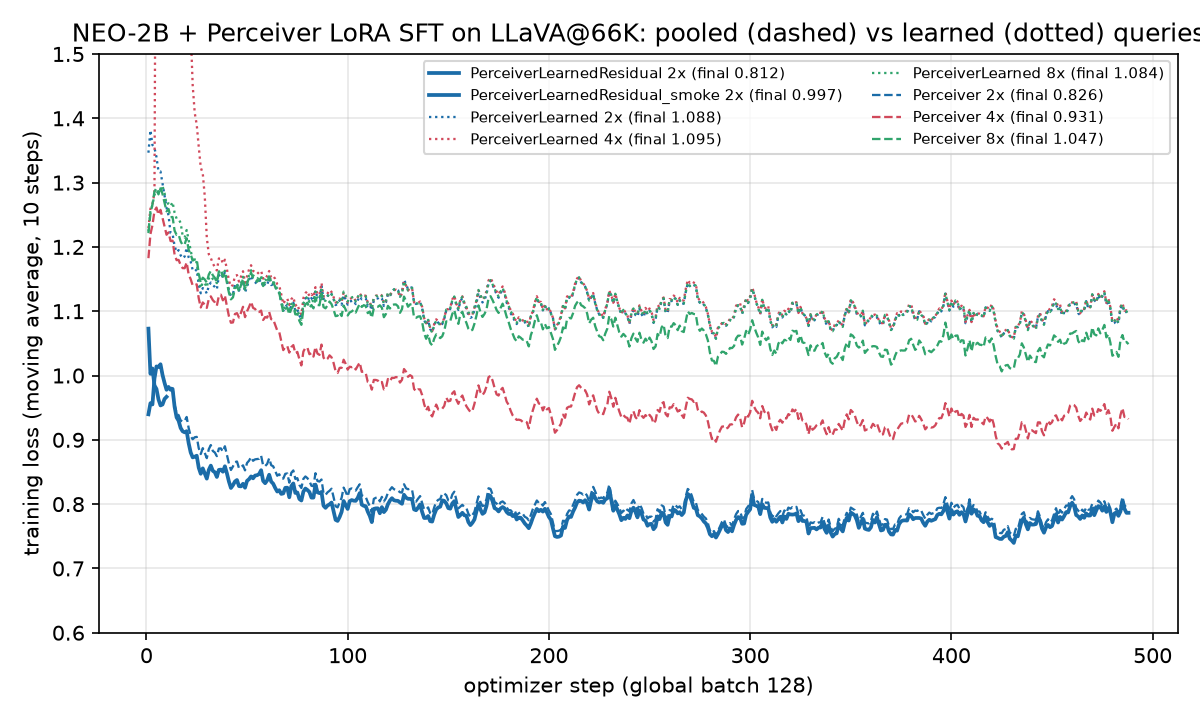
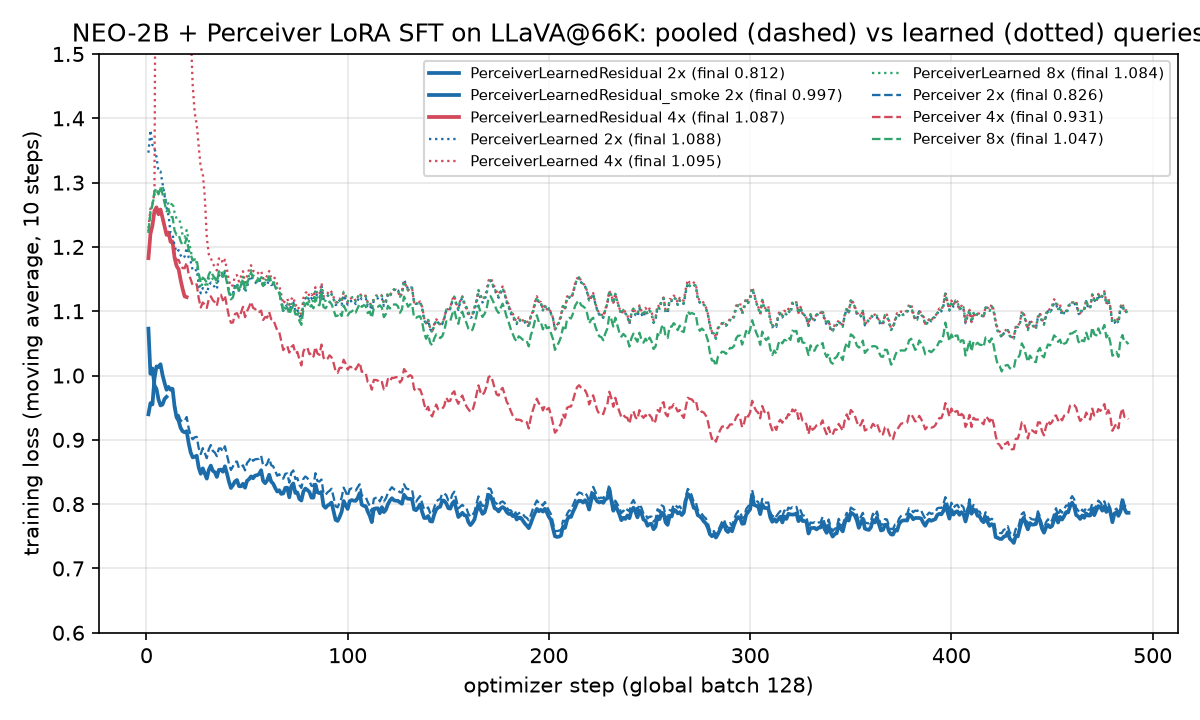
perceiver-learned: e003 done (full 2x row 73.37/1527/47.00/59.22/33.42/40.00/20.7/40.24, RWQA retry 8454045 after node fault); e004 seg1 progress note; figure refreshed

Changed region(s): [[0.3392, 0.1528, 0.6475, 0.2444], [0.1233, 0.275, 0.1542, 0.3972], [0.9558, 0.2139, 0.9867, 0.2444]]

diff --git a/research/experiments/perceiver-learned/e003.md b/research/experiments/perceiver-learned/e003.md
@@ -3,11 +3,11 @@ id: e003
 direction: perceiver-learned
 batch: b003
 parent: e002
-status: submitted
+status: done
 created: 2026-11-09T18:30:00
 sha: 12a1540
 cluster: ascend
-jobs: [8453614, 8453620]
+jobs: [8453614, 8453620, 8454045]
 config:
   tier: probe tier 2 (debug-nextgen, 40 min), evals tier 3 (nextgen array, 6 tasks x 2.5 h)
   probe: scripts/perceiver_probe.py --n 128 --seed 0 --ratio 2 (same 128 LLaVA samples as e001), conditions residual/{trained,no-latents,fixed,zeros} + pooled/{trained,zeros}
@@ -18,8 +18,10 @@ metrics: {probe_residual_trained: 0.6350, probe_residual_no_latents: 0.6361, pro
   probe_delta_trained_minus_pooled: -0.0093, latent_term_rms_over_pooled_query_rms: 0.0023, latents_rms: 0.0129,
   attn_gate_tanh: 0.0001, mlp_gate_tanh: 0.0100, residual_attn_entropy_over_logN: 0.0255, residual_attn_max_weight: 0.928,
   residual_output_cosine_to_fixed_pooling: 0.946, residual_output_rel_rms_change_from_fixed_pooling: 0.330,
-  mlp_branch_rms_unit_input: 19.4, implied_native_token_rms: 4.66}
-gpu_hours: 0.06
+  mlp_branch_rms_unit_input: 19.4, implied_native_token_rms: 4.66,
+  mmbench: 73.37, mme: 1527.31, mmmu: 47.00, rwqa: 59.22, textvqa: 33.42, docvqa: 40.00, ocrbench: 20.7, chartqa: 40.24,
+  pooled2x_mme: 1523.96, pooled2x_mmmu: 46.89, pooled2x_rwqa: 57.65, pooled2x_textvqa: 32.38, pooled2x_ocrbench: 20.8, pooled2x_chartqa: 40.12}
+gpu_hours: 2.44
 ---
 ## Hypothesis
 Follow-up to e002 (cause (b) fixed by construction, gate passed). Two questions. (1) Mechanism: the latents of the
@@ -105,8 +107,42 @@ Prediction scores: latent term < 10% of the pooled query: HIT (0.23%). Gates |ta
 hair (0.946); relative RMS change < 0.3: MISS (0.33). The two misses are the same fact: the module changes the pooled
 tokens more than expected, and the change is the MLP branch alone, not the latents or the attention.
 
-### Evals 8453620_[0-5] (nextgen)
-(pending)
+### Evals 8453620_[0-5] (nextgen) + RealWorldQA retry 8454045_0 (debug-nextgen)
+Array 8453620 at 12a1540, started 2026-11-09 18:19-18:21 (queue wait about 0 min, 378 pending on nextgen at the time).
+Five tasks finished before this wake; TextVQA (task 3) finished during it.
+
+| task | dataset | node | state | wall | result |
+|---|---|---|---|---|---|
+| 0 | MME | a0122 | COMPLETED | 0:19 | perception 1527.31 (reasoning 481.8, OCR 192.5) |
+| 1 | MMMU_DEV_VAL | a0316 | COMPLETED | 0:10 | validation Overall 47.00 |
+| 2 | RealWorldQA | a0339 | COMPLETED rc=0, **no result** | 0:01 | `CUDA error: CUDA-capable device(s) is/are busy or unavailable` while loading the adapter; `run.py` catches per-(model, dataset) exceptions and exits 0 ("skipping this combination") |
+| 3 | TextVQA_VAL | a0174 | COMPLETED | 0:55 | Overall 33.42 |
+| retry 8454045_0 | RealWorldQA | a0126 | COMPLETED | 0:07 | Overall 59.22 |
+| 4 | OCRBench | a0187 | COMPLETED | 0:19 | Final Score 207 -> 20.7 |
+| 5 | ChartQA_TEST | a0264 | COMPLETED | 0:32 | Overall 40.24 (human 35.76, augmented 44.72) |
+
+Task 2 is a node fault (the GPU on a0339 was unavailable at job start, nothing of ours ran), not a code or data error;
+retried once as 8454045_0 (`DATASETS=RealWorldQA --array=0 --partition=debug-nextgen --time=0:50:00`, same MODELS/REPO, no
+code change); the retry ran clean on a0126. Note for later arrays: an eval task can exit 0 without writing a result,
+so check for the `*_acc.csv` / `*_score.*` file, not the Slurm exit code. Eval GPU-h: 0.31 + 0.16 + 0.01 + 0.92 + 0.32
++ 0.54 + 0.12 = 2.38; e003 total 2.44.
+
+Full 2x row (LLaVA@66K, 488 steps; reference rows from `$SCRATCH/VTC-Native-Eval/VLMEvalKit/outputs` and the tex):
+
+| 2x | MMBench | MME | MMMU | RWQA | TextVQA | DocVQA | OCRBench | ChartQA |
+|---|---|---|---|---|---|---|---|---|
+| Perceiver learned_residual (this, comp lr 1e-3) | 73.37 | 1527.3 | 47.00 | 59.22 | 33.42 | 40.00 | 20.7 | 40.24 |
+| Perceiver pooled (comp lr 2e-5, tex row) | 74.31 | 1524.0 | 46.89 | 57.65 | 32.38 | 37.33 | 20.8 | 40.12 |
+| delta (this - pooled) | -0.94 | +3.4 | +0.11 | +1.57 | +1.04 | +2.67 | -0.1 | +0.12 |
+| Perceiver learned (paper-faithful, collapsed) | 24.23 | 875.2 | 41.00 | 44.58 | 9.64 | 6.85 | 1.7 | 10.80 |
+| fixed pooling 2x, untrained | 70.62 | 1444.2 | 46.33 | 57.39 | 28.29 | 28.85 | 11.2 | 37.00 |
+| random pruning 2x + LLaVA@66K (tex) | 72.68 | 1531.3 | 46.44 | 58.43 | 34.05 | 41.95 | 21.9 | 38.80 |
+
+Prediction scores (eval part): MME 1480-1560: HIT (1527). OCRBench 18-30: HIT (20.7). TextVQA within 3 of pooled: HIT
+(+1.04). "If DocVQA's +2.7 is real, OCRBench and ChartQA at or above pooled" (0.5): OCRBench -0.1 (one item in 1000) and
+ChartQA +0.12 (three items in 2500), i.e. equal within one item, neither above: scored as a MISS of the "real OCR gain"
+reading. Item-count noise: MMBench 1 item = 0.086 pt, RWQA 1 item = 0.13 pt, DocVQA 1 item = 0.019 ANLS-pt but ANLS is
+graded, TextVQA 1 item = 0.02 pt. The six new benchmarks differ from pooled by at most 1.6 pts (RWQA, 12 items).
 
 ## Interpretation
 (probe part) The learned queries are inert: a 0.2% shift of the pooled query, worth 0.001 nats, and the module trained
@@ -122,8 +158,20 @@ compressor lr letting the MLP branch move (gate 0.010 vs 0.004, weights 1.4x), n
 this means the "learned queries" row should be labelled as such in the record: it matches pooled because it is
 pooled plus a per-token MLP.
 
+(eval part) The full 2x row confirms the probe: learned_residual and pooled are the same row within noise on all eight
+benchmarks (|delta| <= 1.6 pts everywhere except DocVQA +2.7, and DocVQA is the one benchmark where the per-token MLP
+branch could plausibly matter, since the probe's 0.03-nat gain was measured on LLaVA text-rich samples too). Two table
+consequences. (1) The learned-query Perceiver row for `tab:training-based` at 2x is 73.37 / 1527.3 / 47.00 / 59.22 /
+33.42 / 40.00 / 20.7 / 40.24, and it should carry the footnote that its queries are pooled-anchored (init = fixed
+pooling) and its latents are inert after training; the paper-faithful variant is the collapsed row. (2) Neither Perceiver
+row beats "random pruning 2x + LLaVA@66K" (41.95 DocVQA, 21.9 OCRBench, 34.05 TextVQA, 1531 MME): at this data scale
+the trained resampler adds nothing over SFT-ing the LLM to a trivial token selector, consistent with the mechanism
+(the module is fixed pooling + a 1%-gated MLP). The direction's primary question (why the collapse, and what fixes it)
+is answered by e001-e003; what remains is the secondary 4x/8x block (e004 running) and the open theory question of
+whether cross-attention queries can be trained at all here (item 3).
+
 ## Next
-Evals pending for the 2x row. For the direction's theory: item 3 (warm-started paper-faithful `learned`, no pooled
+2x row complete. For the direction's theory: item 3 (warm-started paper-faithful `learned`, no pooled
 anchor) is now the only way left to see whether cross-attention queries can be trained at all at this data scale; the
 probe gives it a concrete prediction (if it trains, its attention should stay far from one-hot). Item 4 continues with
 4x (e004) and 8x. A cheap extra row worth considering if budget allows after 4x/8x: `pooled` with compressor lr 1e-3

diff --git a/research/experiments/perceiver-learned/RESULTS.md b/research/experiments/perceiver-learned/RESULTS.md
@@ -2,9 +2,9 @@
 
 Generated by research-results from 4 records. Do not edit by hand.
 
-| id | batch | parent | status | sha | gpu_hours | loss_learned_trained | loss_learned_zeros | loss_learned_noise | loss_pooled_trained | loss_pooled_zeros | loss_base_fixed2x | loss_base_fixed2x_zeros | loss_base_learned_init | loss_base_none | learned_output_pairwise_cosine | learned_init_output_pairwise_cosine | learned_attn_entropy_over_logN | pooled_output_pairwise_cosine | pooled_attn_entropy_over_logN | learned_latents_rms_after_training | smoke_loss_steps1to5_mean | smoke_loss_max_steps1to16 | smoke_sec_per_step | resume_step11_loss_delta | final_loss_ma10 | final_loss_ma50 | pooled2x_final_loss_ma10 | train_sec_per_step | train_hours | mmbench | docvqa | pooled2x_mmbench | pooled2x_docvqa | gate_passed | probe_residual_trained | probe_residual_no_latents | probe_residual_fixed | probe_residual_zeros | probe_pooled_trained | probe_delta_trained_minus_no_latents | probe_delta_trained_minus_fixed | probe_delta_trained_minus_pooled | latent_term_rms_over_pooled_query_rms | latents_rms | attn_gate_tanh | mlp_gate_tanh | residual_attn_entropy_over_logN | residual_attn_max_weight | residual_output_cosine_to_fixed_pooling | residual_output_rel_rms_change_from_fixed_pooling | mlp_branch_rms_unit_input | implied_native_token_rms | hypothesis |
-|---|---|---|---|---|---|---|---|---|---|---|---|---|---|---|---|---|---|---|---|---|---|---|---|---|---|---|---|---|---|---|---|---|---|---|---|---|---|---|---|---|---|---|---|---|---|---|---|---|---|---|---|---|---|
-| e001 | b001 |  | done | 94091f4 | 0.1 | 0.9583 | 1.224 | 1.025 | 0.6443 | 1.341 | 0.8225 | 1.431 | 1.22 | 0.7184 | 0.9999 | 0.9953 | 0.9902 | 0.69 | 0.957 | 0.02 |  |  |  |  |  |  |  |  |  |  |  |  |  |  |  |  |  |  |  |  |  |  |  |  |  |  |  |  |  |  |  |  | Tests cause (a) of the direction doc (signal, not optimisation): the LLM under the PerceiverLearned-2x LoRA has |
-| e002 | b002 | e001 | done | 43311d8 | 14.98 |  |  |  |  |  |  |  |  |  |  |  |  |  |  |  | 0.979 | 1.094 | 89 | 0 | 0.7865 | 0.7835 | 0.7948 | 86.9 | 12 | 73.37 | 40 | 74.31 | 37.33 | 1 |  |  |  |  |  |  |  |  |  |  |  |  |  |  |  |  |  |  | Tests causes (a)+(b) together (backlog item 2): a Perceiver whose learned latent queries are a zero-initialised |
-| e003 | b003 | e002 | submitted | 12a1540 | 0.06 |  |  |  |  |  |  |  |  |  |  |  |  |  |  |  |  |  |  |  |  |  |  |  |  |  |  |  |  |  | 0.635 | 0.6361 | 0.6661 | 1.332 | 0.6443 | -0.001 | -0.0311 | -0.0093 | 0.0023 | 0.0129 | 0.0001 | 0.01 | 0.0255 | 0.928 | 0.946 | 0.33 | 19.4 | 4.66 | Follow-up to e002 (cause (b) fixed by construction, gate passed). Two questions. (1) Mechanism: the latents of the |
-| e004 | b004 | e002 | submitted | 12a1540 |  |  |  |  |  |  |  |  |  |  |  |  |  |  |  |  |  |  |  |  |  |  |  |  |  |  |  |  |  |  |  |  |  |  |  |  |  |  |  |  |  |  |  |  |  |  |  |  | Backlog item 4, first half: the fix of e002 (pooled-anchored learned queries, init = fixed pooling) carries to 4x, |
+| id | batch | parent | status | sha | gpu_hours | loss_learned_trained | loss_learned_zeros | loss_learned_noise | loss_pooled_trained | loss_pooled_zeros | loss_base_fixed2x | loss_base_fixed2x_zeros | loss_base_learned_init | loss_base_none | learned_output_pairwise_cosine | learned_init_output_pairwise_cosine | learned_attn_entropy_over_logN | pooled_output_pairwise_cosine | pooled_attn_entropy_over_logN | learned_latents_rms_after_training | smoke_loss_steps1to5_mean | smoke_loss_max_steps1to16 | smoke_sec_per_step | resume_step11_loss_delta | final_loss_ma10 | final_loss_ma50 | pooled2x_final_loss_ma10 | train_sec_per_step | train_hours | mmbench | docvqa | pooled2x_mmbench | pooled2x_docvqa | gate_passed | probe_residual_trained | probe_residual_no_latents | probe_residual_fixed | probe_residual_zeros | probe_pooled_trained | probe_delta_trained_minus_no_latents | probe_delta_trained_minus_fixed | probe_delta_trained_minus_pooled | latent_term_rms_over_pooled_query_rms | latents_rms | attn_gate_tanh | mlp_gate_tanh | residual_attn_entropy_over_logN | residual_attn_max_weight | residual_output_cosine_to_fixed_pooling | residual_output_rel_rms_change_from_fixed_pooling | mlp_branch_rms_unit_input | implied_native_token_rms | mme | mmmu | rwqa | textvqa | ocrbench | chartqa | pooled2x_mme | pooled2x_mmmu | pooled2x_rwqa | pooled2x_textvqa | pooled2x_ocrbench | pooled2x_chartqa | hypothesis |
+|---|---|---|---|---|---|---|---|---|---|---|---|---|---|---|---|---|---|---|---|---|---|---|---|---|---|---|---|---|---|---|---|---|---|---|---|---|---|---|---|---|---|---|---|---|---|---|---|---|---|---|---|---|---|---|---|---|---|---|---|---|---|---|---|---|---|
+| e001 | b001 |  | done | 94091f4 | 0.1 | 0.9583 | 1.224 | 1.025 | 0.6443 | 1.341 | 0.8225 | 1.431 | 1.22 | 0.7184 | 0.9999 | 0.9953 | 0.9902 | 0.69 | 0.957 | 0.02 |  |  |  |  |  |  |  |  |  |  |  |  |  |  |  |  |  |  |  |  |  |  |  |  |  |  |  |  |  |  |  |  |  |  |  |  |  |  |  |  |  |  |  |  | Tests cause (a) of the direction doc (signal, not optimisation): the LLM under the PerceiverLearned-2x LoRA has |
+| e002 | b002 | e001 | done | 43311d8 | 14.98 |  |  |  |  |  |  |  |  |  |  |  |  |  |  |  | 0.979 | 1.094 | 89 | 0 | 0.7865 | 0.7835 | 0.7948 | 86.9 | 12 | 73.37 | 40 | 74.31 | 37.33 | 1 |  |  |  |  |  |  |  |  |  |  |  |  |  |  |  |  |  |  |  |  |  |  |  |  |  |  |  |  |  |  | Tests causes (a)+(b) together (backlog item 2): a Perceiver whose learned latent queries are a zero-initialised |
+| e003 | b003 | e002 | done | 12a1540 | 2.44 |  |  |  |  |  |  |  |  |  |  |  |  |  |  |  |  |  |  |  |  |  |  |  |  | 73.37 | 40 |  |  |  | 0.635 | 0.6361 | 0.6661 | 1.332 | 0.6443 | -0.001 | -0.0311 | -0.0093 | 0.0023 | 0.0129 | 0.0001 | 0.01 | 0.0255 | 0.928 | 0.946 | 0.33 | 19.4 | 4.66 | 1527 | 47 | 59.22 | 33.42 | 20.7 | 40.24 | 1524 | 46.89 | 57.65 | 32.38 | 20.8 | 40.12 | Follow-up to e002 (cause (b) fixed by construction, gate passed). Two questions. (1) Mechanism: the latents of the |
+| e004 | b004 | e002 | submitted | 12a1540 |  |  |  |  |  |  |  |  |  |  |  |  |  |  |  |  |  |  |  |  |  |  |  |  |  |  |  |  |  |  |  |  |  |  |  |  |  |  |  |  |  |  |  |  |  |  |  |  |  |  |  |  |  |  |  |  |  |  |  |  | Backlog item 4, first half: the fix of e002 (pooled-anchored learned queries, init = fixed pooling) carries to 4x, |

diff --git a/research/directions/perceiver-learned.md b/research/directions/perceiver-learned.md
@@ -8,7 +8,7 @@ cluster: ascend
 status: active
 wake: on_jobs
 budget_gpu_hours: 100
-spent_gpu_hours: 15.14
+spent_gpu_hours: 17.52
 max_jobs_in_flight: 6
 jobs:
 - 8453615
@@ -16,7 +16,6 @@ jobs:
 - 8453617
 - 8453618
 - 8453619
-- 8453620
 jobs_archived:
 - 8387204
 - 8387205
@@ -37,13 +36,15 @@ jobs_archived:
 - 8387867
 - 8387868
 - 8453614
-last_wake: '2026-11-09T18:20:00-05:00'
+- 8453620
+- 8454045
+last_wake: '2026-11-09T19:00:00-05:00'
 next_id: 5
 model: claude-fable-5-1
 effort: high
 max_turns: 120
 timeout_minutes: 60
-wakes: 5
+wakes: 6
 ---
 # Why does the learned-query Perceiver collapse, and what fixes it?
 
@@ -199,3 +200,15 @@ result; record it as such if backlog items 2-4 all fail.
   compressor lr, not learned queries. Remaining six 2x benchmarks submitted as one array 8453620_[0-5] (DATASETS override in
   eval_table2.sbatch). e004 = 4x row: chain 8453615-8453618 (4 x 4 h, nextgen) + full 8-benchmark eval 8453619_[0-7]
   (afterok seg4). In flight 6 (cap 6); 8x waits for the next wake. Spent 15.14 of 100 GPU-h; committed about 21 more.
+- 2026-11-09 19:00 wake (on_jobs: 8453620_{0,1,2,4,5} done). e003 DONE (2.44 GPU-h): the 2x row is complete. Task 2
+  (RealWorldQA) exited 0 with no result (node a0339 GPU "busy or unavailable" at load; run.py swallows the exception),
+  retried once as 8454045_0 on debug-nextgen (7 min, clean); TextVQA (task 3) finished in-wake. Full 2x learned_residual row
+  73.37 / 1527.3 / 47.00 / 59.22 / 33.42 / 40.00 / 20.7 / 40.24 vs pooled 74.31 / 1524.0 / 46.89 / 57.65 / 32.38 / 37.33 /
+  20.8 / 40.12: same row within noise (max |delta| 1.6 except DocVQA +2.7); neither Perceiver row beats random pruning +
+  LLaVA@66K on OCR. 5 of 7 e003 eval predictions hit (OCRBench/ChartQA equal to pooled, not above). e004 seg1 8453615 at
+  88 s/step (step 26 at 19:00), first 20 steps paired -0.027 nats below pooled 4x; figure refreshed. Nothing new submitted:
+  in flight 5 (e004 chain + eval array), the 8x chain + eval needs 5 ids, so it fits only once seg4 8453618 has finished
+  (about 07:00 2026-11-10). Suggested use of the seg1/seg2 boundary wakes (1 free id each): implement backlog item 3
+  (warm-started paper-faithful `learned`: latents = mean pooled token, zero-init o_proj + last MLP linear, comp lr 1e-3) and
+  run its 15-min smoke on debug-nextgen; its training chain goes in with or after the 8x chain (2 training jobs max).
+  Spent 17.52 of 100 GPU-h (e001 0.10 + e002 14.98 + e003 2.44); committed about 17.5 more (e004).

diff --git a/research/experiments/perceiver-learned/e004.md b/research/experiments/perceiver-learned/e004.md
@@ -48,7 +48,19 @@ Eval 8453619_[0-7] (`afterok:8453618`, `--time=3:00:00`, `MODELS=NEO-2B-SFT-OV-L
 Output dir `$SCRATCH/VTC-Native-Eval-ckpts/output/NEO_continue_SFT_LLaVA_OV_llava66k_PerceiverLearnedResidual_4x` (absent at submission).
 
 ## Outcome
-(pending)
+### In progress (2026-11-09 19:00 wake)
+Seg1 8453615 started 18:22 on a0263 (queue wait 0 min), 88.0 s/step steady (prediction 80-87: slightly MISS on the
+upper edge; 3 x 4 h then cover about 3 x 160 = 480 steps, so seg4 runs about 20 min). First 20 steps, paired with the
+pooled 4x run (identical data order; steps 1-2 are bit-identical, as the init is fixed pooling in both):
+
+| steps | learned_residual 4x (this) | pooled 4x | learned 4x (collapsed) |
+|---|---|---|---|
+| 1-5 | 1.1825 / 1.2574 / 1.2603 / 1.3237 / 1.2837 | 1.1825 / 1.2574 / 1.2617 / 1.3220 / 1.2828 | mean 2.05 |
+| 11-20 mean | 1.122 | 1.176 | |
+| 1-20 paired diff | -0.027 (max abs 0.112) | | |
+
+The curve separates from pooled 4x downwards from step 6 onward (figure `figures/loss_curves.png` regenerated), the
+same pattern as e002 at 2x but twice the early gap (-0.027 vs -0.013 nats). Checkpoint-10 and -20 written.
 
 ## Interpretation
 (pending)
